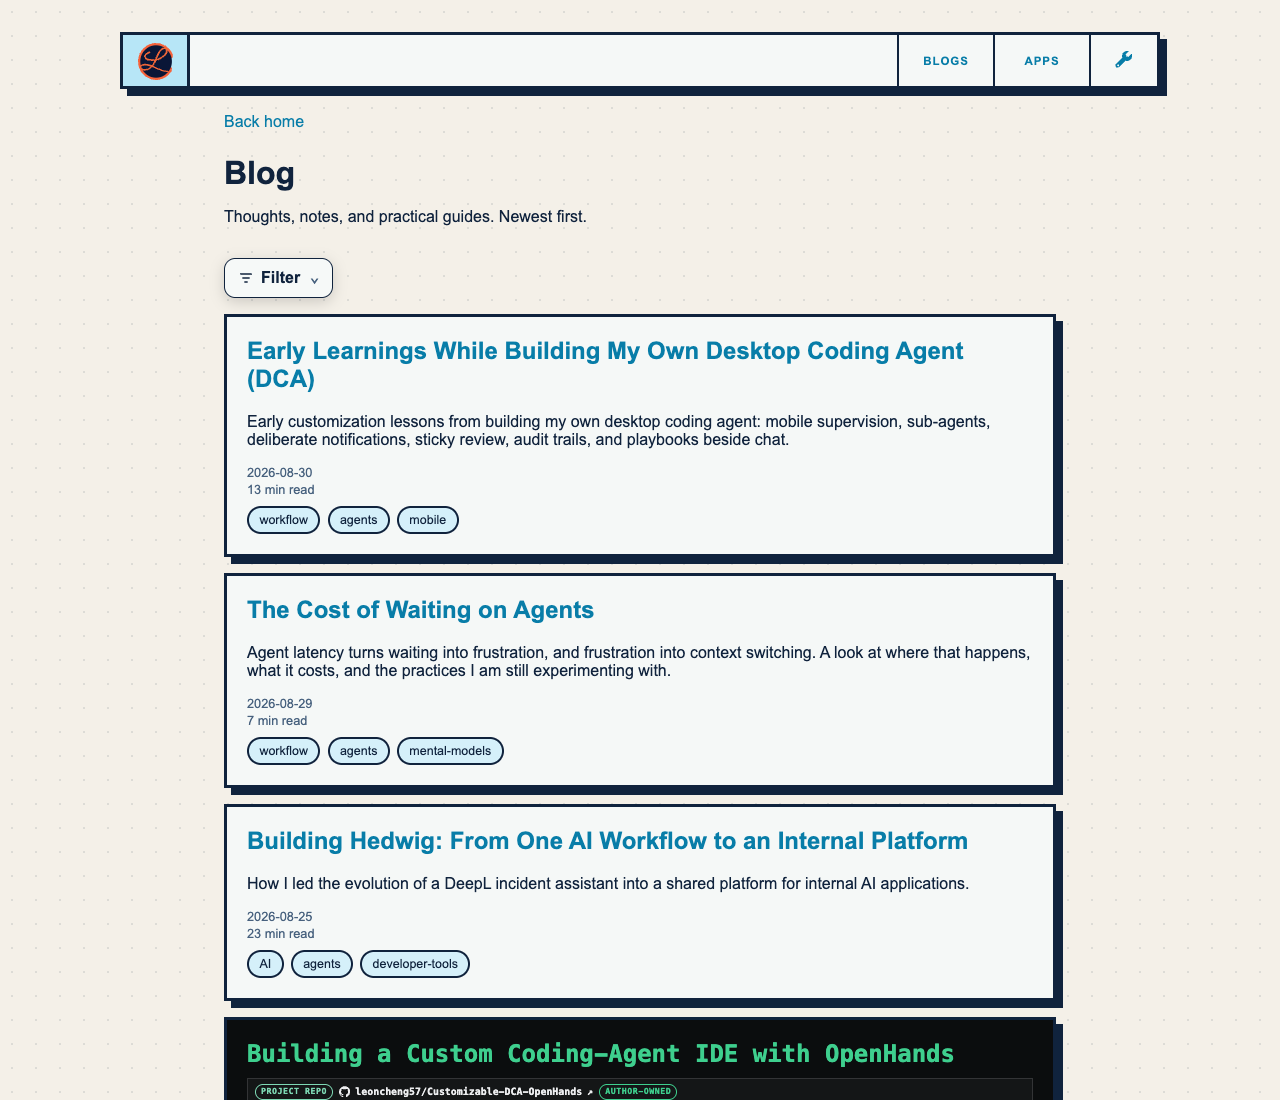
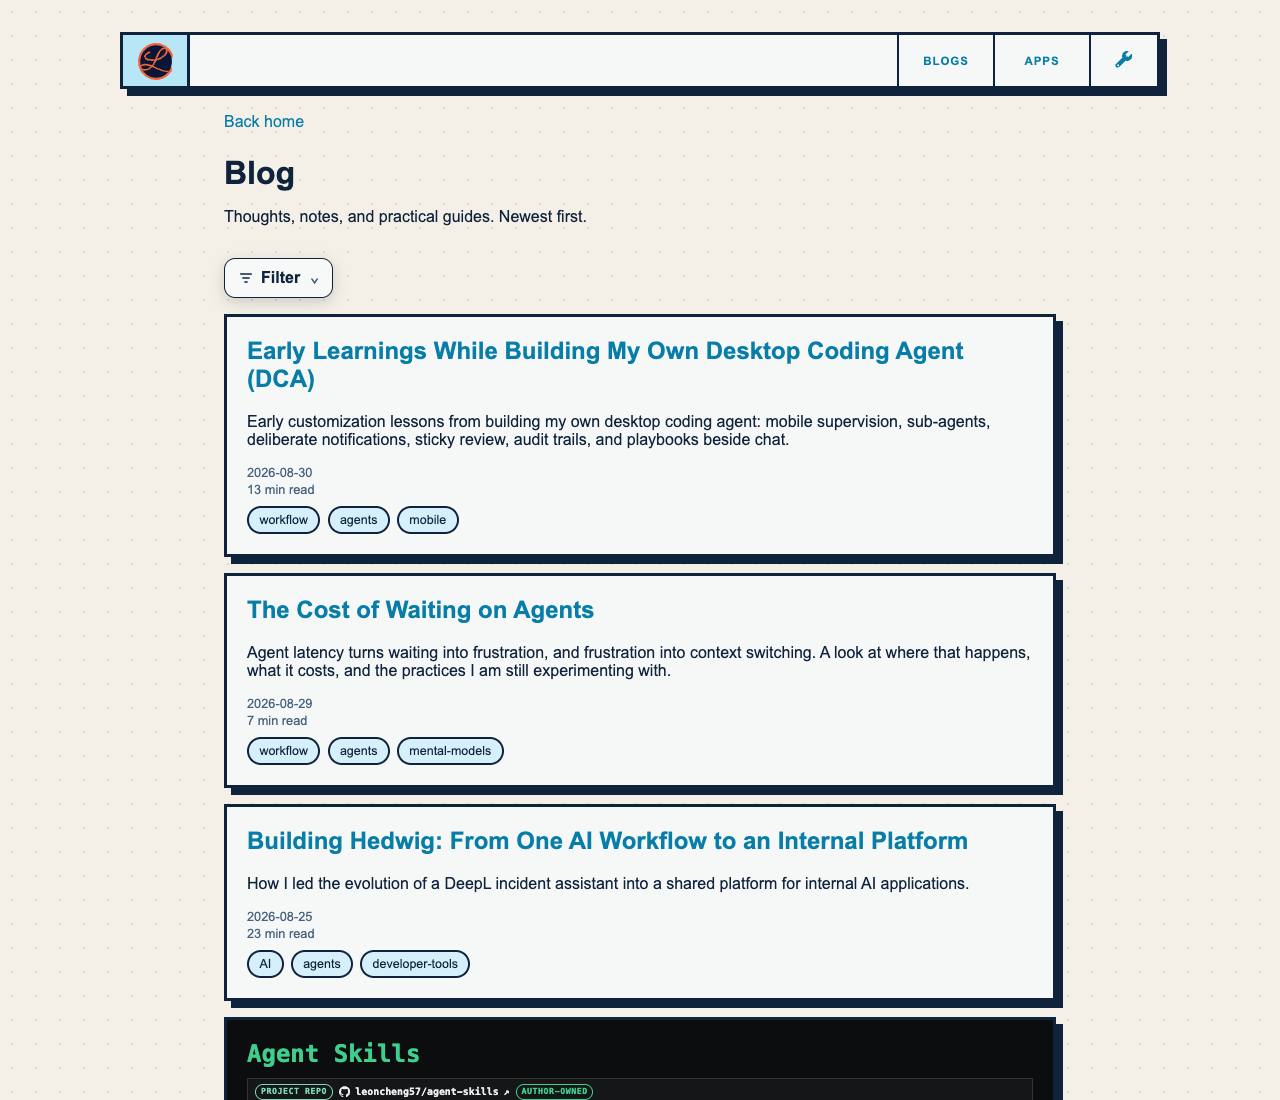
Include Agent Skills as a dated guide card

Changed region(s): [[0.1875, 0.9273, 0.75, 1.0]]

diff --git a/src/features/blog/routes/blog-routes.test.tsx b/src/features/blog/routes/blog-routes.test.tsx
@@ -16,6 +16,10 @@ describe('blog routes', () => {
     expect(dates).toEqual([...dates].sort().reverse())
     const kinds = cards.map(card => card.querySelector('h2 a')!.getAttribute('href')!.startsWith('/guides/'))
     expect(kinds.filter(Boolean)).toHaveLength(5)
+    const skills = screen.getByRole('link', { name: 'Agent Skills' }).closest('article')!
+    expect(skills.querySelector('time')).toHaveAttribute('datetime', '2026-08-21')
+    expect(skills.querySelector('h2 a')).toHaveAttribute('href', 'https://leoncheng.dev/agent-skills/')
+    expect(cards.indexOf(skills)).toBeLessThan(cards.indexOf(screen.getByRole('link', { name: 'Building a Custom Coding-Agent IDE with OpenHands' }).closest('article')!))
     expect(kinds.some((isGuide, i) => isGuide && kinds.slice(0, i).includes(false) && kinds.slice(i + 1).includes(false))).toBe(true)
     fireEvent.click(screen.getByRole('button', { name: 'Filter tags' }))
     fireEvent.click(screen.getByRole('checkbox', { name: 'opencode' }))

diff --git a/src/features/blog/routes/BlogIndexRoute.tsx b/src/features/blog/routes/BlogIndexRoute.tsx
@@ -138,7 +138,7 @@ export default function BlogIndexRoute(): ReactElement {
           {visiblePosts.map((post) => (
             <article key={post.href} className={`${styles.postCard} ${post.kind === 'Guide' ? `${guideStyles.guideCard} ${styles.feedGuide}` : ''}`}>
               <h2>
-                <Link to={post.href}>{post.title}</Link>
+                {post.href.startsWith('https://') ? <a href={post.href}>{post.title}</a> : <Link to={post.href}>{post.title}</Link>}
               </h2>
               {post.guide ? (
                 <div className={styles.feedRepo}>
@@ -160,9 +160,6 @@ export default function BlogIndexRoute(): ReactElement {
           ))}
           {visiblePosts.length === 0 ? <p className={styles.emptyState}>No posts match those tags.</p> : null}
         </div>
-        <p className={styles.backLink}>
-          More resources: <a href="https://leoncheng.dev/agent-skills/">Agent Skills</a>
-        </p>
       </main>
       <SiteFooter />
     </div>

diff --git a/src/features/blog/feed.ts b/src/features/blog/feed.ts
@@ -36,6 +36,16 @@ export function getBlogFeed(): FeedEntry[] {
       guide,
     })),
     {
+      href: 'https://leoncheng.dev/agent-skills/',
+      title: 'Agent Skills',
+      description: 'A catalogue of portable agent skills: reusable workflow instructions with copy-paste install commands for coding agents.',
+      // Date the catalogue was added to this site's guide index, not a review date.
+      date: '2026-08-21',
+      kind: 'Guide',
+      tags: ['agents', 'opencode', 'workflow'],
+      guide: { repoUrl: 'https://github.com/leoncheng57/agent-skills', repoAccess: 'public', repoScope: 'standalone' },
+    },
+    {
       href: '/guides/opencode-remote-control',
       title: 'OpenCode Remote Control',
       description: 'Control local OpenCode sessions from your phone over a private tailnet. Interactive setup, daily commands, notifications, and troubleshooting.',
